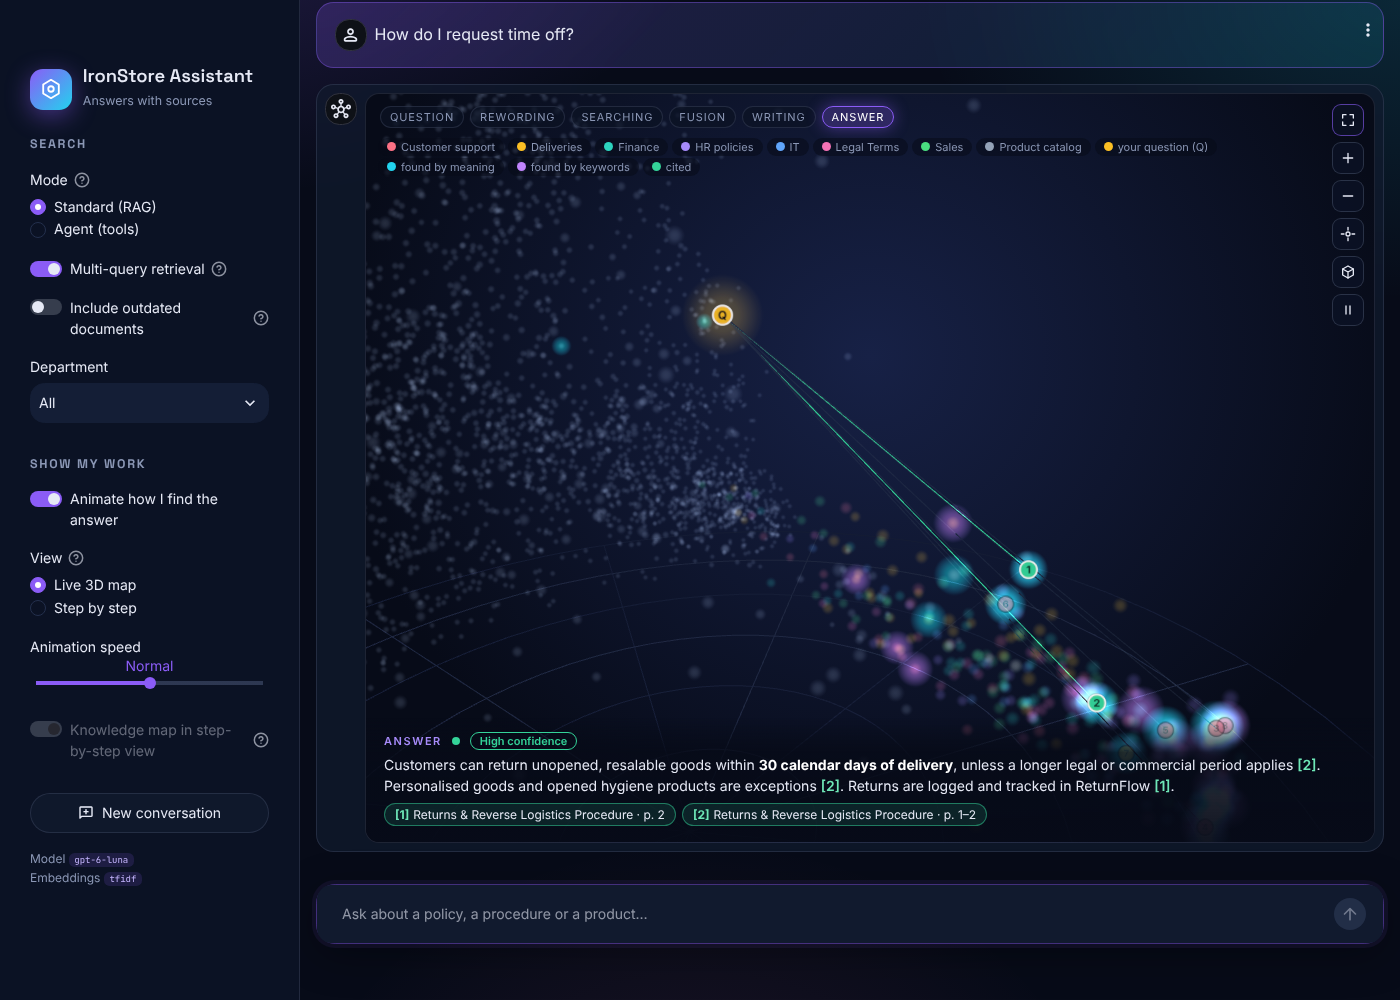
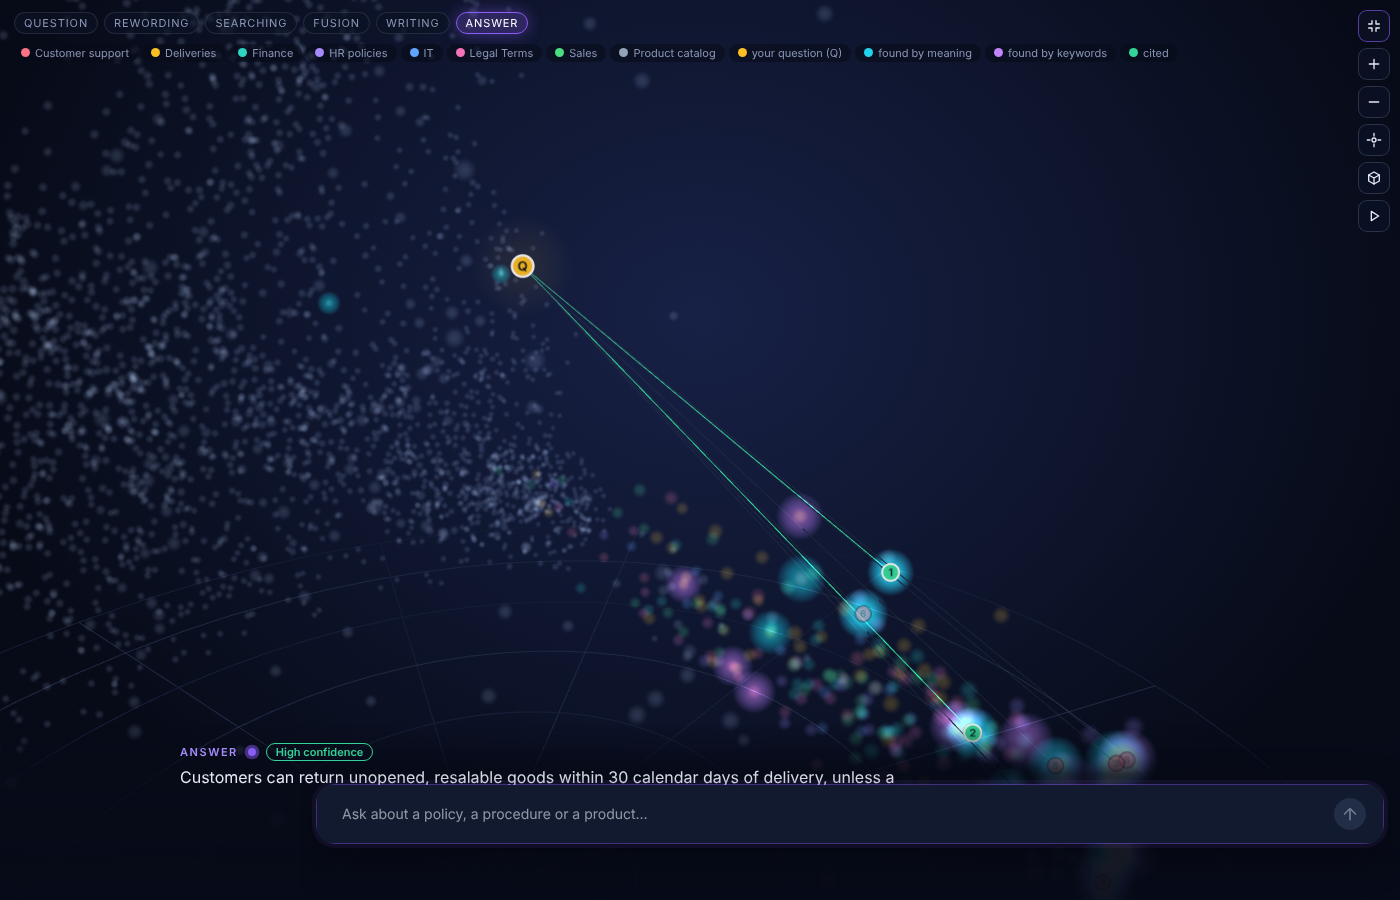
Open the live 3D map full screen (#8)
The live map now covers the whole window as soon as a question is asked, with
the chat input floating on top. Its full-screen button (or Esc) docks it into
the chat and back.

Claude-Session: https://claude.ai/code/session_01KqAWEF9bMqLgKeb2ZZpgnx

diff --git a/assets/live_map.html b/assets/live_map.html
@@ -34,6 +34,10 @@
   :fullscreen body, body:fullscreen { background: #070b18; }
   :fullscreen .wrap { height: 100vh; border-radius: 0; border: 0; }
   :fullscreen .caption { font-size: 16px; }
+  /* live map covering the whole window: room at the bottom for the chat box that floats over it */
+  body.overlay { background: #070b18; }
+  .overlay .wrap { height: 100vh; border-radius: 0; border: 0; }
+  .overlay .caption { font-size: 16px; padding: 18px max(18px, calc(50% - 520px)) 124px; max-height: 50%; }
   .steps { position: absolute; top: 12px; left: 14px; display: flex; gap: 6px; flex-wrap: wrap; z-index: 2; pointer-events: none; }
   .steps span { font-size: 11px; letter-spacing: .08em; text-transform: uppercase; padding: 3px 9px; border-radius: 999px;
                 background: rgba(11,18,36,.7); border: 1px solid rgba(139,151,181,.18); color: #5b6785; transition: all .3s; }
@@ -283,12 +287,26 @@ stage.addEventListener("pointerup", e => { stage.classList.remove("dragging"); c
   if (!click) return; const p = pick(e); if (p) p.sel !== undefined ? openSel(p.sel) : openDot(p.dot); });
 stage.addEventListener("pointerleave", () => { tip.style.opacity = 0; });
 
-// full screen
-$("fs").onclick = () => document.fullscreenElement ? document.exitFullscreen()
-  : document.documentElement.requestFullscreen().catch(() => {});
-document.addEventListener("fullscreenchange", () => { const on = !!document.fullscreenElement;
+// full screen: the live map opens covering the whole window and this button docks it into the chat;
+// the other maps use the browser's full screen
+const host = (() => { try { return D.overlay && window.frameElement; } catch (e) { return null; } })();
+const ICON_OPEN = "M4 9V4h5M20 9V4h-5M4 15v5h5M20 15v5h-5", ICON_CLOSE = "M9 4v5H4M15 4v5h5M9 20v-5H4M15 20v-5h5";
+function setFull(on) {
   $("fs").title = on ? "Exit full screen" : "Full screen";
-  $("fs-icon").setAttribute("d", on ? "M9 4v5H4M15 4v5h5M9 20v-5H4M15 20v-5h5" : "M4 9V4h5M20 9V4h-5M4 15v5h5M20 15v5h-5"); });
+  $("fs-icon").setAttribute("d", on ? ICON_CLOSE : ICON_OPEN);
+}
+function setOverlay(on) {
+  host.classList.toggle("map-full", on); document.body.classList.toggle("overlay", on); setFull(on);
+}
+if (host) {
+  setOverlay(true);
+  $("fs").onclick = () => setOverlay(!host.classList.contains("map-full"));
+  addEventListener("keydown", e => { if (e.key === "Escape" && host.classList.contains("map-full")) setOverlay(false); });
+} else {
+  $("fs").onclick = () => document.fullscreenElement ? document.exitFullscreen()
+    : document.documentElement.requestFullscreen().catch(() => {});
+  document.addEventListener("fullscreenchange", () => setFull(!!document.fullscreenElement));
+}
 
 // -- the story: one handler per pipeline event -------------------------------------------------
 let mode = null;  // "reading" while the model writes

diff --git a/live_view.py b/live_view.py
@@ -139,8 +139,9 @@ class MapEvents:
 
 
 def _render(data: dict, height: int | None) -> None:
-    """height=None fills the screen: the map takes its frame's full height, and ui.py sizes the frame
-    (inside a container keyed "livemap") to the space between the question and the chat input."""
+    """height=None is the live map: it opens covering the whole window (ui.py pins its frame, inside a
+    container keyed "livemap", over the page) and its full-screen button docks it into the chat."""
+    data = {**data, "overlay": height is None}
     page = (TEMPLATE.read_text().replace("__HEIGHT__", f"{height}px" if height else "100vh")
             .replace("__DATA__", json.dumps(data).replace("</", "<\\/")))
     # The page is built from our own index and answer, and every text is escaped before it is shown.
@@ -154,7 +155,7 @@ def _render(data: dict, height: int | None) -> None:
 
 class LiveMap:
     """`on_step` callback that streams each pipeline step to the 3D map while the answer is built.
-    The map fills the answer area; the answer and its sources are typed into its caption."""
+    The map covers the whole window; the answer and its sources are typed into its caption."""
 
     def __init__(self, retriever: Retriever, question: str, speed: float = 1.0):
         self.ev = MapEvents(retriever)

diff --git a/ui.py b/ui.py
@@ -86,8 +86,13 @@ GLOBAL_CSS = """
 [data-testid="stChatInput"] { border: 1px solid rgba(139, 92, 246, .45) !important; border-radius: 1.2rem !important;
                               box-shadow: 0 0 0 4px rgba(139, 92, 246, .08), 0 10px 40px rgba(0, 0, 0, .35); }
 
-/* the live 3D map fills the space between the question and the chat input */
+/* the live 3D map opens covering the whole window (the map adds the map-full class to its frame),
+   with the chat input floating on top; docked, it fills the space between the question and the input */
 .st-key-livemap iframe { height: max(480px, calc(100vh - 250px)) !important; display: block; }
+.st-key-livemap iframe.map-full { position: fixed !important; inset: 0 !important; width: 100vw !important;
+                                  height: 100vh !important; z-index: 999995; }
+[data-testid="stChatMessage"]:has(iframe.map-full) { backdrop-filter: none; animation: none; transform: none; }
+body:has(iframe.map-full) [data-testid="stBottom"] { z-index: 999999; }
 .st-key-livemap [data-testid="stElementContainer"] { height: auto !important; }
 [data-testid="stChatMessage"]:has(.st-key-livemap) { padding: .5rem; }
 

diff --git a/SOLUTION.md b/SOLUTION.md
@@ -132,16 +132,18 @@ and the answer is built on the map **while it happens**:
 6. **Answer**: the cited passages turn green and pulse, and the answer is typed out in the caption bar
    at the bottom, with its confidence and the cited sources (click one to read the passage).
 
-The map fills the whole answer area, from the question down to the chat box, and the answer lives inside
-it, so nothing is repeated below.
+The map opens full screen, covering the whole window, with the chat box floating on top so you can ask the
+next question right away. The answer lives inside the map, so nothing is repeated below. The button at the
+top right (or Esc) docks the map into the chat, where it fills the space between the question and the chat
+box; press it again to go back to full screen. The map sets a class on its own frame (`map-full`) and
+`ui.py` pins that frame over the page.
 
 How it streams: `LiveMap` (`live_view.py`) is the `on_step` callback. It writes each step to a small JSON
 file under `static/live/`, which Streamlit serves (`enableStaticServing`), and the map polls it four times a
 second.
 
 You can explore at any time: drag to rotate, right-drag to move, scroll to zoom, hover any dot for its
-document and page, click a numbered passage to read it, click a department in the legend to hide it, and
-press the full-screen button (top right).
+document and page, click a numbered passage to read it, and click a department in the legend to hide it.
 
 ![Live map while searching](docs/images/live_searching.png)
 
